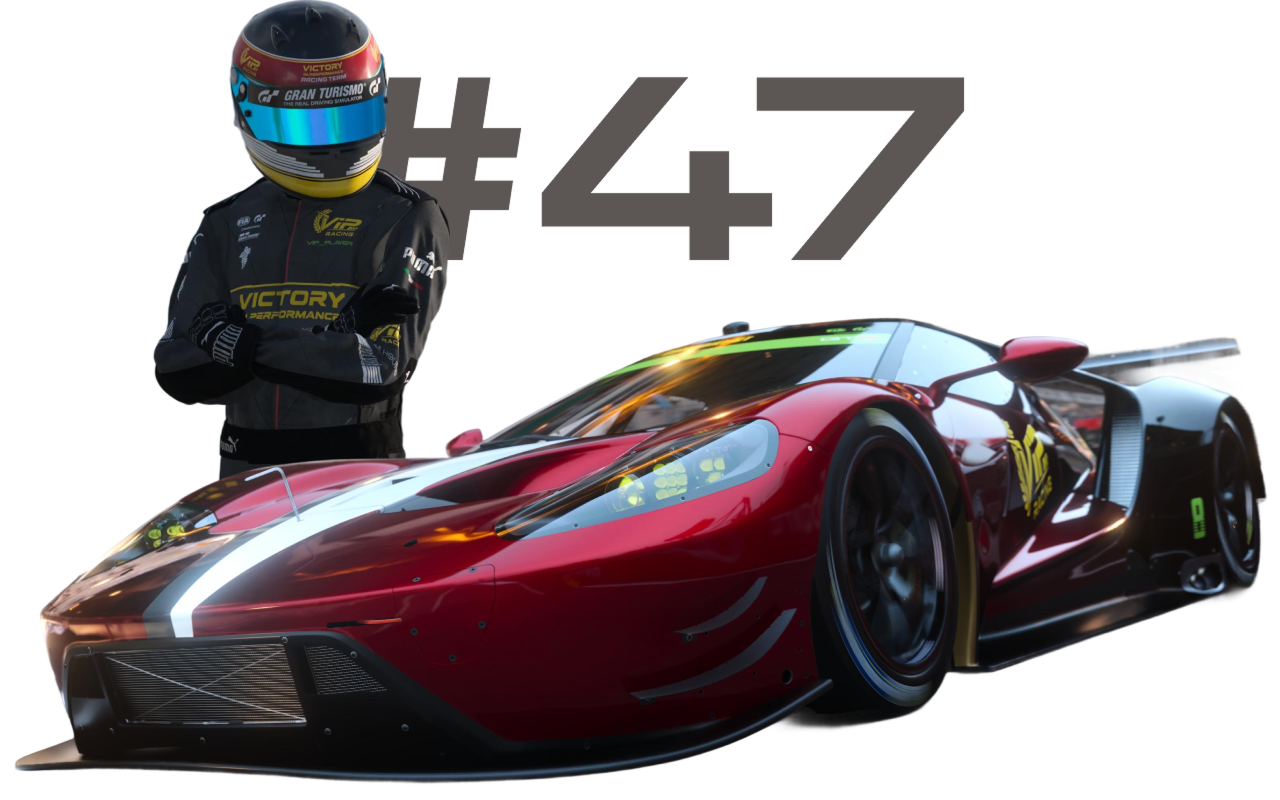
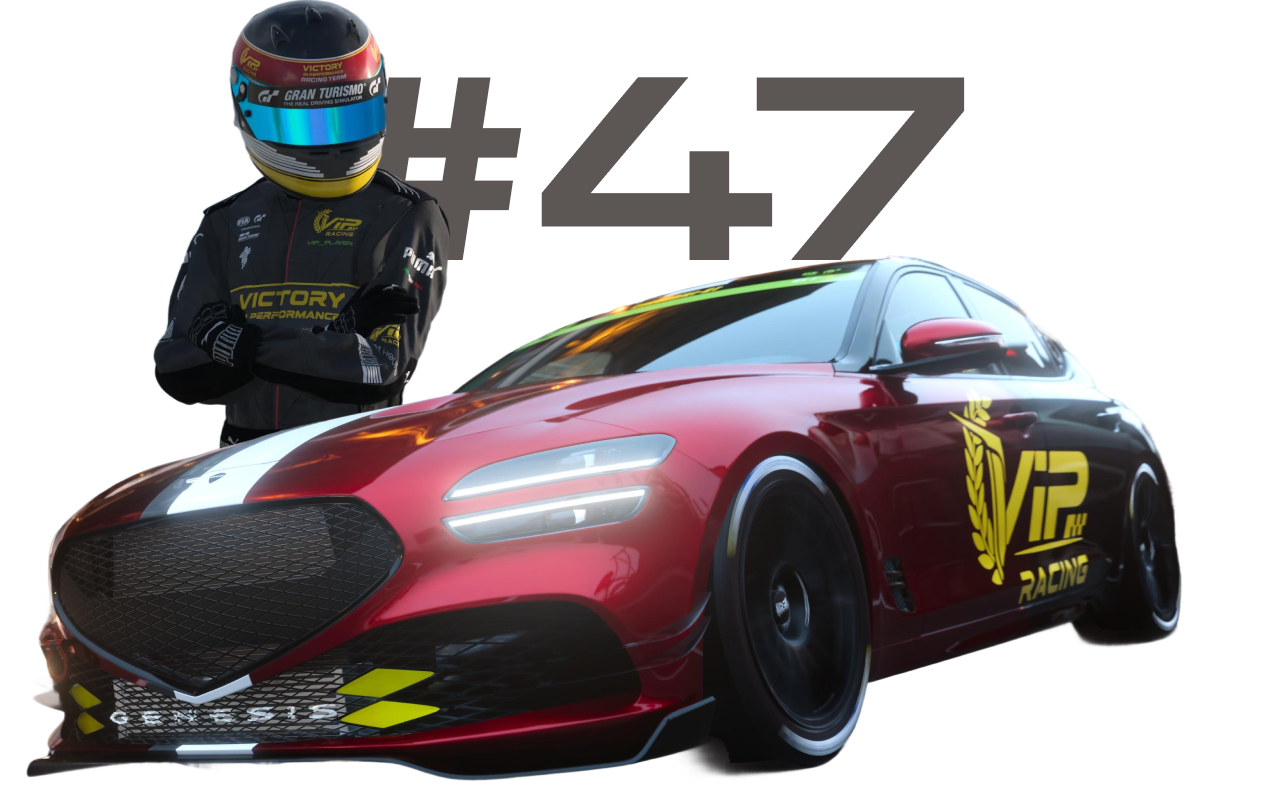
Add new driver, update driver.

diff --git a/src/util/data/drivers/drivers.ts b/src/util/data/drivers/drivers.ts
@@ -14,6 +14,7 @@ import PrincePlaka from "../../../assets/drivers/PrincePlaka.png";
 import Left2PassU from "../../../assets/drivers/Left2PassU.png";
 import JPScale from "../../../assets/drivers/JPScale.png";
 import RowdyBurns from "../../../assets/drivers/RowdyBurns.png";
+import CornBred from "../../../assets/drivers/CornBred.png";
 
 type SocialLink = {
   username: string;
@@ -171,7 +172,7 @@ export const drivers: Driver[] = [
     psnId: "sup_player_1",
     favCar: "Genesis G70 GR4",
     favTrack: "Deep Forest Raceway",
-    hardware: "Logitech G29",
+    hardware: "Logitech G PRO Racing Wheel",
     cardImg: Player,
     flag: "us",
     socials: {
@@ -272,6 +273,21 @@ export const drivers: Driver[] = [
     flag: "ca",
     socials: {
       youtube: { username: "@VIP_rowdyburns", url: "https://youtube.com/@VIP_rowdyburns", channelId: "UC_PAOT7sqREVJYUE1YRr78Q" },
+    }
+  },
+  {
+    id: 11,
+    name: "CornBred",
+    rank: "The Fockr",
+    gtTag: "VIP_CornBred",
+    psnId: "JRizzell11",
+    favCar: "BMW M6 GT3 ‘16",
+    favTrack: "Nürburgring Nordschleife",
+    hardware: "Logitech G PRO Racing Wheel",
+    cardImg: CornBred,
+    flag: "ca",
+    socials: {
+      youtube: { username: "@CornBredGaming_ViP", url: "https://youtube.com/@CornBredGaming_ViP", channelId: "UCKBCAUpKvY-zqc6Zt9QI74Q" },
     }
   },
 ]

diff --git a/src/util/data/streamers/streamers.ts b/src/util/data/streamers/streamers.ts
@@ -74,4 +74,10 @@ export const streamers: Streamer[] = [
     channelId: "UC5Q2J_v76zwxbOM-vJmMdIA",
     id: 88
   },
+  {
+    name: "CornBredGaming_ViP",
+    username: "@CornBredGaming_ViP",
+    channelId: "UCKBCAUpKvY-zqc6Zt9QI74Q",
+    id: 11
+  }
 ];
